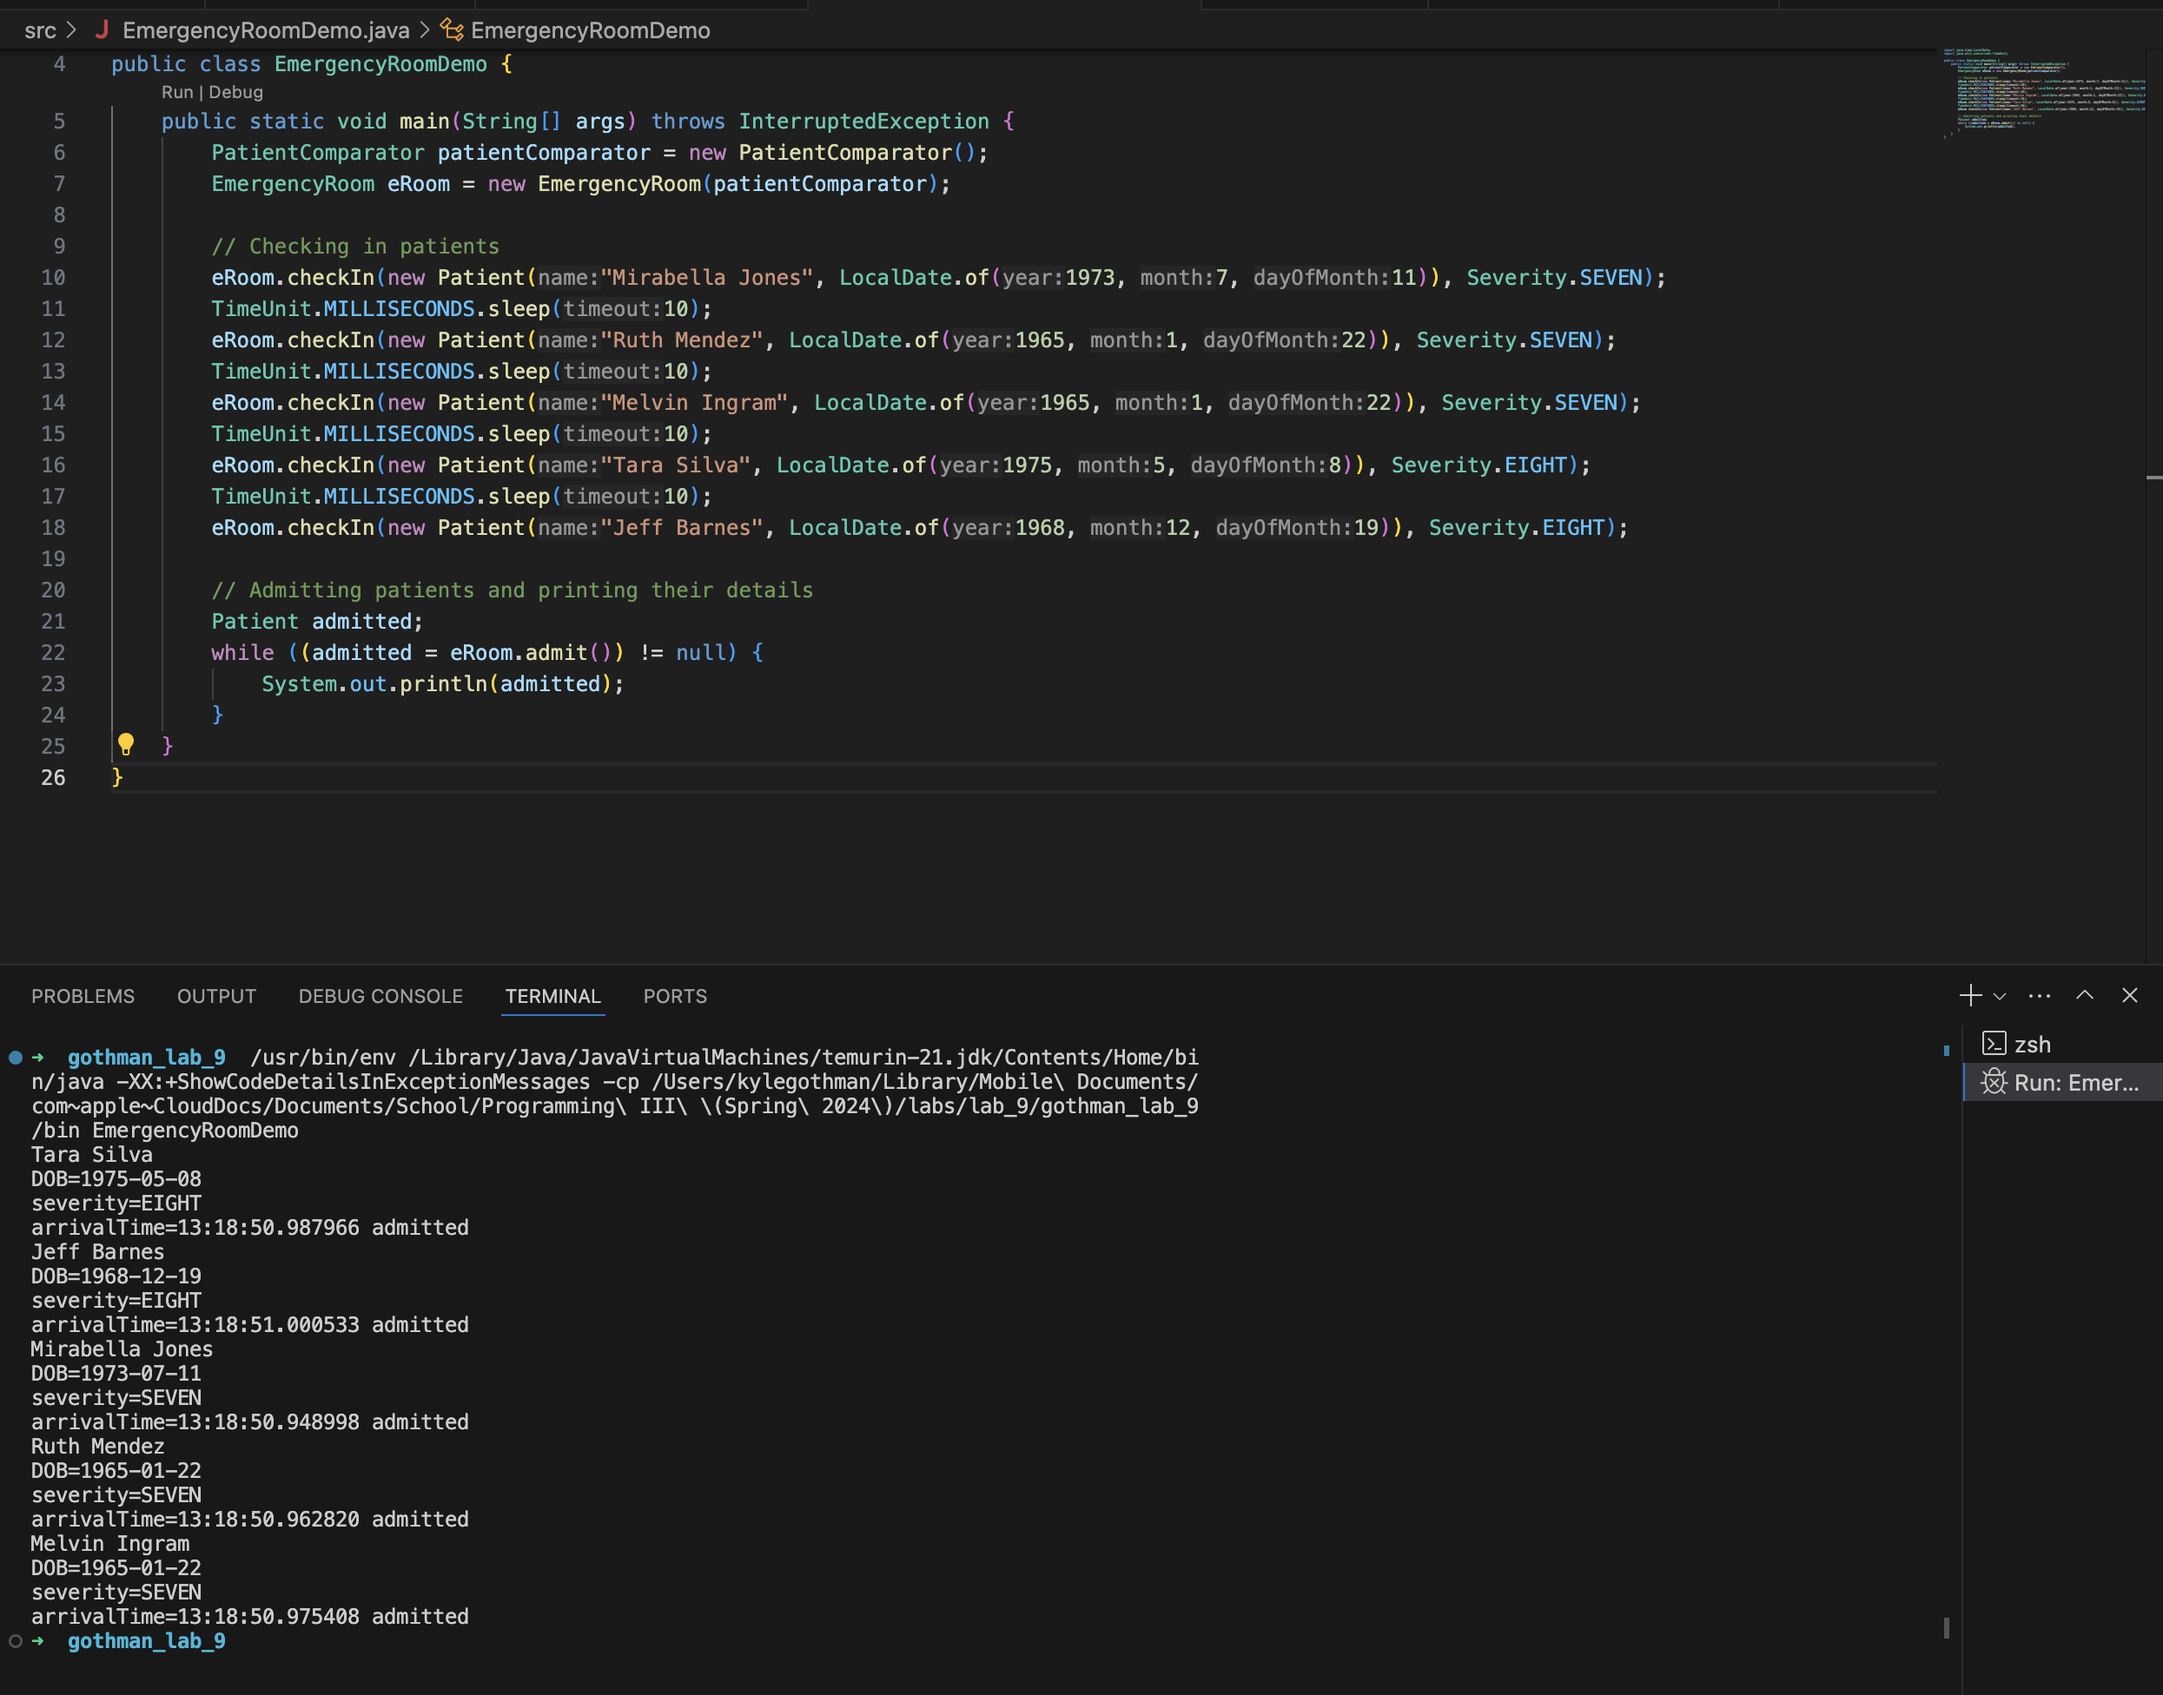
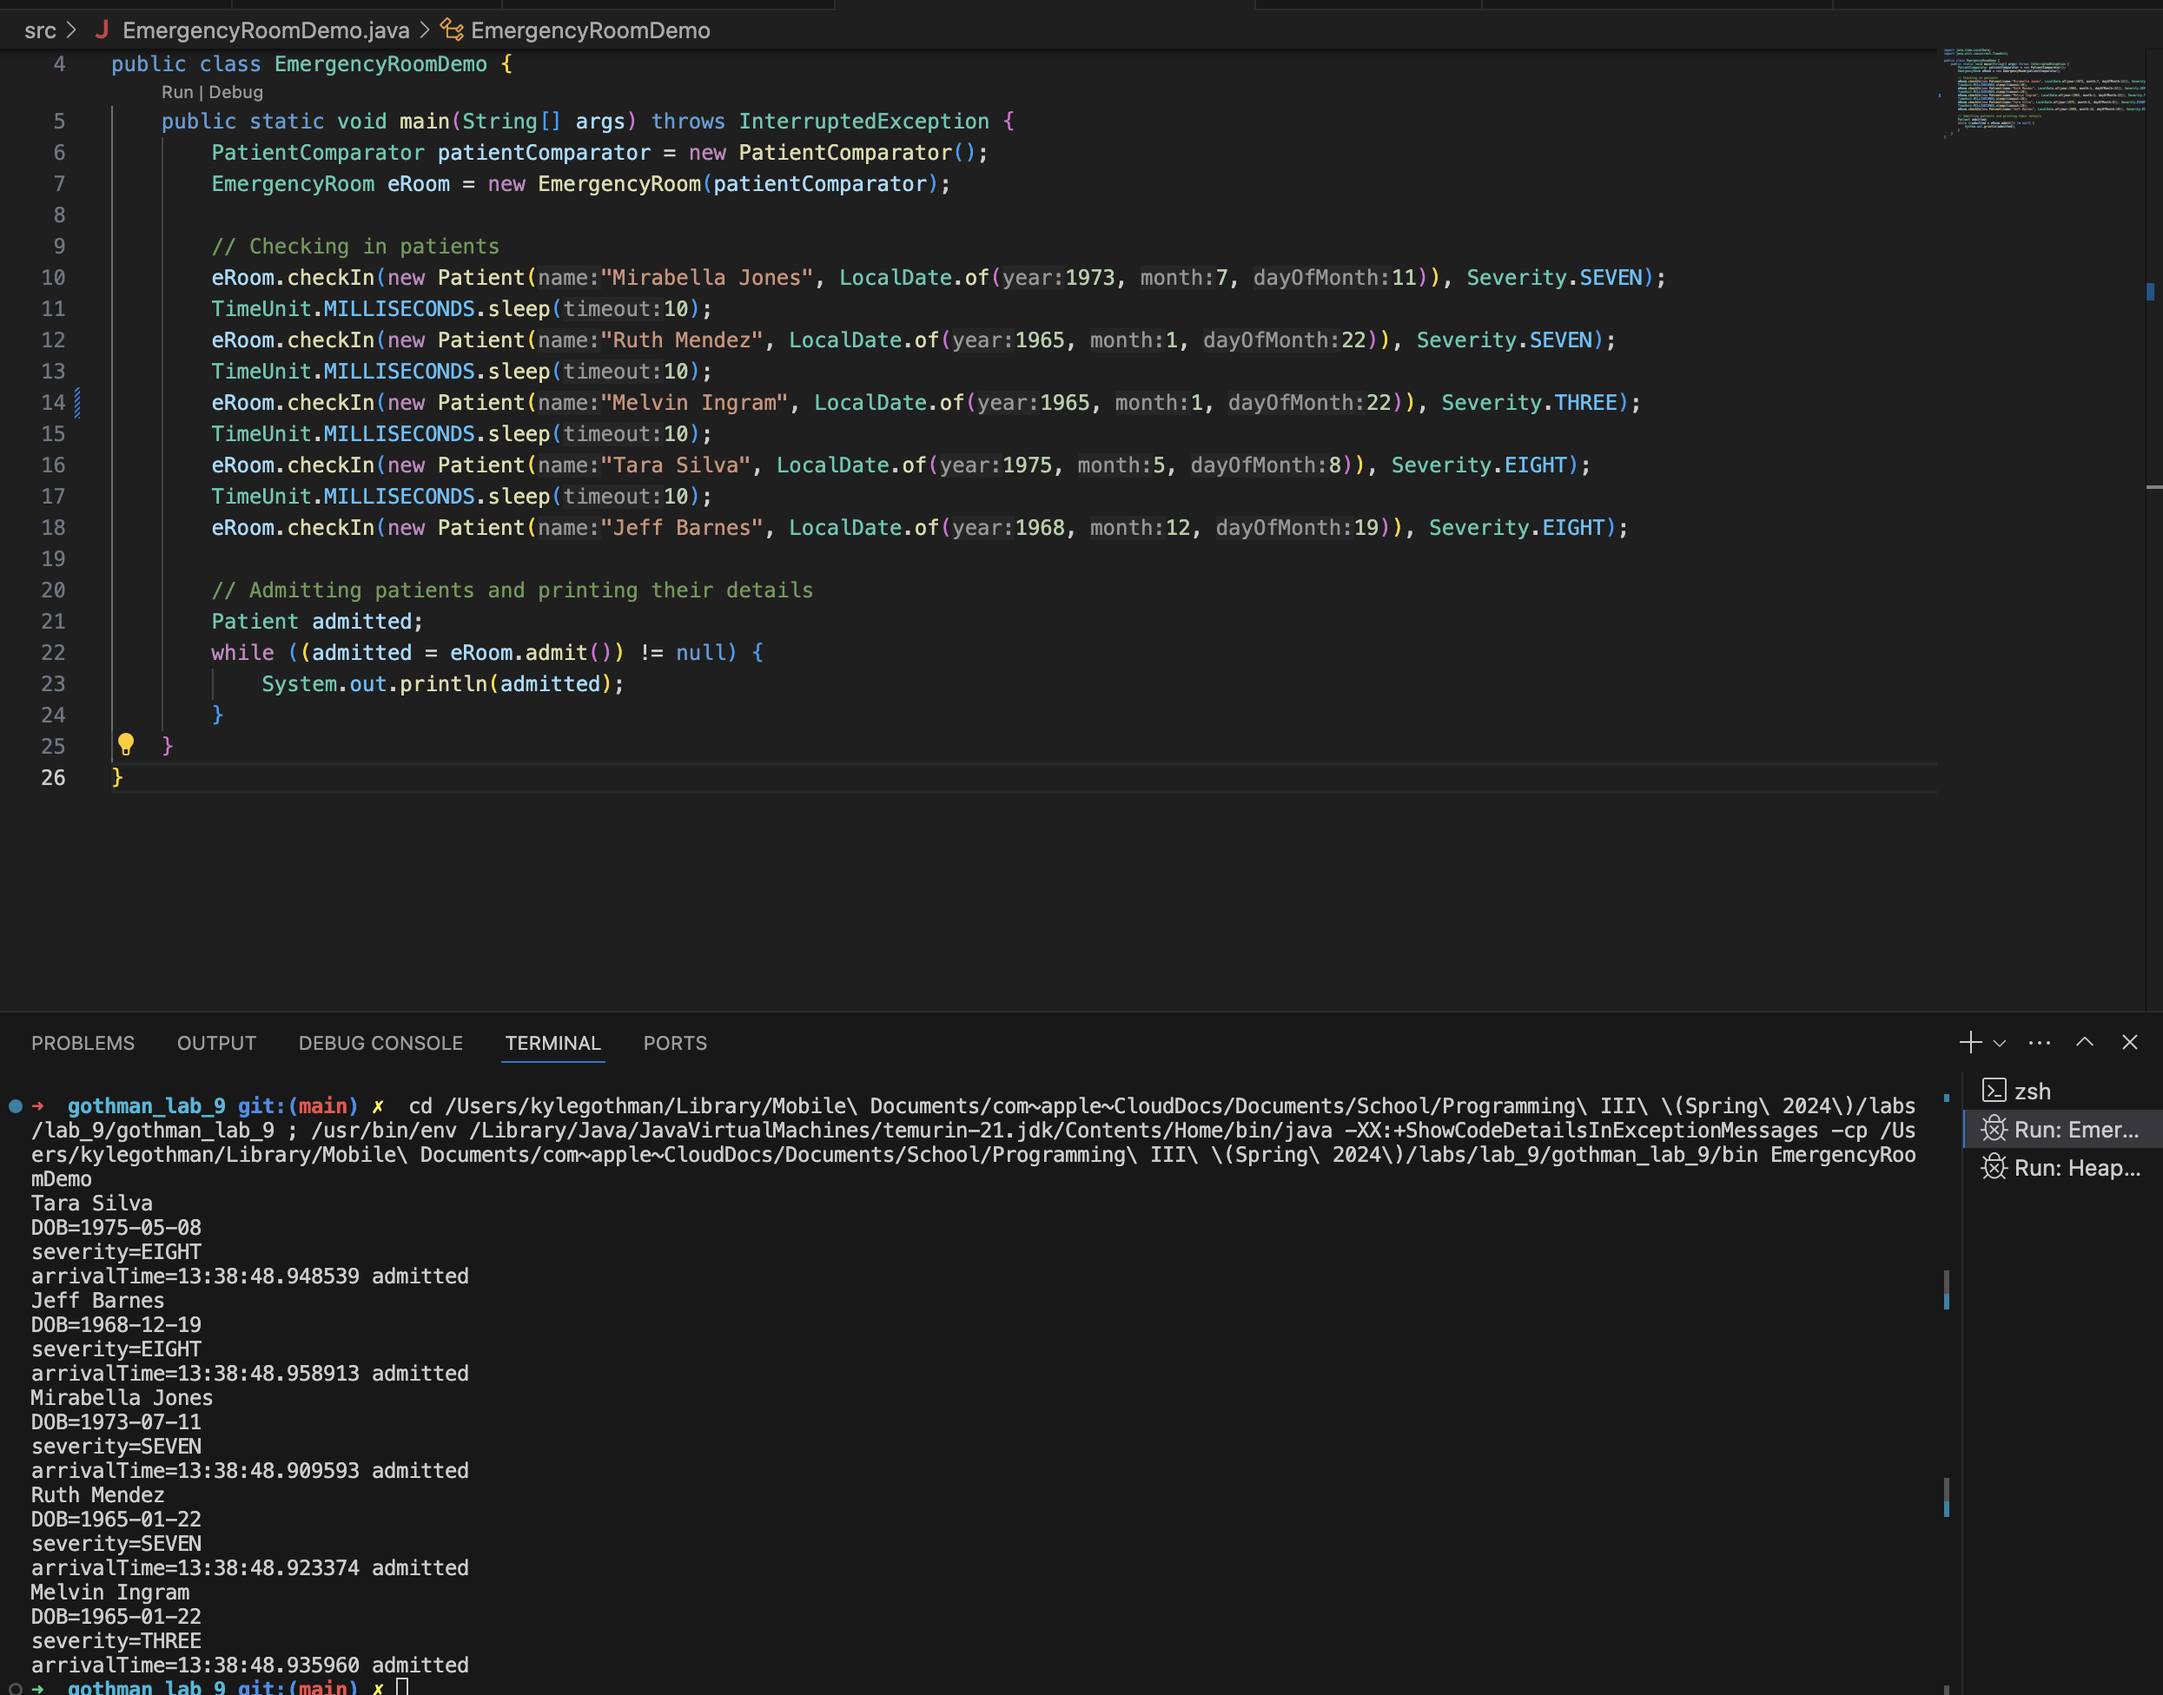
type safety updates
:
:

Changed region(s): [[0.0, 0.5625, 1.0, 1.0], [0.9896, 0.1562, 1.0, 0.1875]]

diff --git a/src/Heap.java b/src/Heap.java
@@ -3,9 +3,9 @@ import java.util.Comparator;
 
 public class Heap<T> {
     private final ArrayList<T> data;
-    private final Comparator<T> comparator;
+    private final Comparator<? super T> comparator;
 
-    public Heap(Comparator<T> comparator) {
+    public Heap(Comparator<? super T> comparator) {
         this.data = new ArrayList<>();
         this.comparator = comparator;
     }
@@ -24,33 +24,34 @@ public class Heap<T> {
     }
 
     public T remove() {
-        if (data.size() == 0) {
+        if (data.isEmpty()) {
             return null;
         }
         T result = data.get(0);
-        if (data.size() == 1) {
-            data.remove(0);  // Just remove the last element, no need to re-heapify.
-            return result;
-        }
-        data.set(0, data.remove(data.size() - 1));  // Move last element to the root and then re-heapify.
-        int current = 0;
-        while (true) {
-            int leftChild = 2 * current + 1;
-            int rightChild = 2 * current + 2;
-            if (leftChild >= data.size()) {
-                break;
-            }
-            int minChild = leftChild;
-            if (rightChild < data.size() && comparator.compare(data.get(rightChild), data.get(leftChild)) < 0) {
-                minChild = rightChild;
-            }
-            if (comparator.compare(data.get(current), data.get(minChild)) <= 0) {
-                break;
-            }
-            swap(current, minChild);
-            current = minChild;
+        if (data.size() > 1) {
+            data.set(0, data.remove(data.size() - 1));
+            heapify(0);
+        } else {
+            data.remove(0);
         }
         return result;
+    }
+
+    private void heapify(int current) {
+        int leftChild = 2 * current + 1;
+        int rightChild = 2 * current + 2;
+        int smallest = current;
+
+        if (leftChild < data.size() && comparator.compare(data.get(leftChild), data.get(smallest)) < 0) {
+            smallest = leftChild;
+        }
+        if (rightChild < data.size() && comparator.compare(data.get(rightChild), data.get(smallest)) < 0) {
+            smallest = rightChild;
+        }
+        if (smallest != current) {
+            swap(current, smallest);
+            heapify(smallest);
+        }
     }
 
     private void swap(int i, int j) {

diff --git a/src/EmergencyRoomDemo.java b/src/EmergencyRoomDemo.java
@@ -11,7 +11,7 @@ public class EmergencyRoomDemo {
         TimeUnit.MILLISECONDS.sleep(10);
         eRoom.checkIn(new Patient("Ruth Mendez", LocalDate.of(1965, 1, 22)), Severity.SEVEN);
         TimeUnit.MILLISECONDS.sleep(10);
-        eRoom.checkIn(new Patient("Melvin Ingram", LocalDate.of(1965, 1, 22)), Severity.SEVEN);
+        eRoom.checkIn(new Patient("Melvin Ingram", LocalDate.of(1965, 1, 22)), Severity.THREE);
         TimeUnit.MILLISECONDS.sleep(10);
         eRoom.checkIn(new Patient("Tara Silva", LocalDate.of(1975, 5, 8)), Severity.EIGHT);
         TimeUnit.MILLISECONDS.sleep(10);
